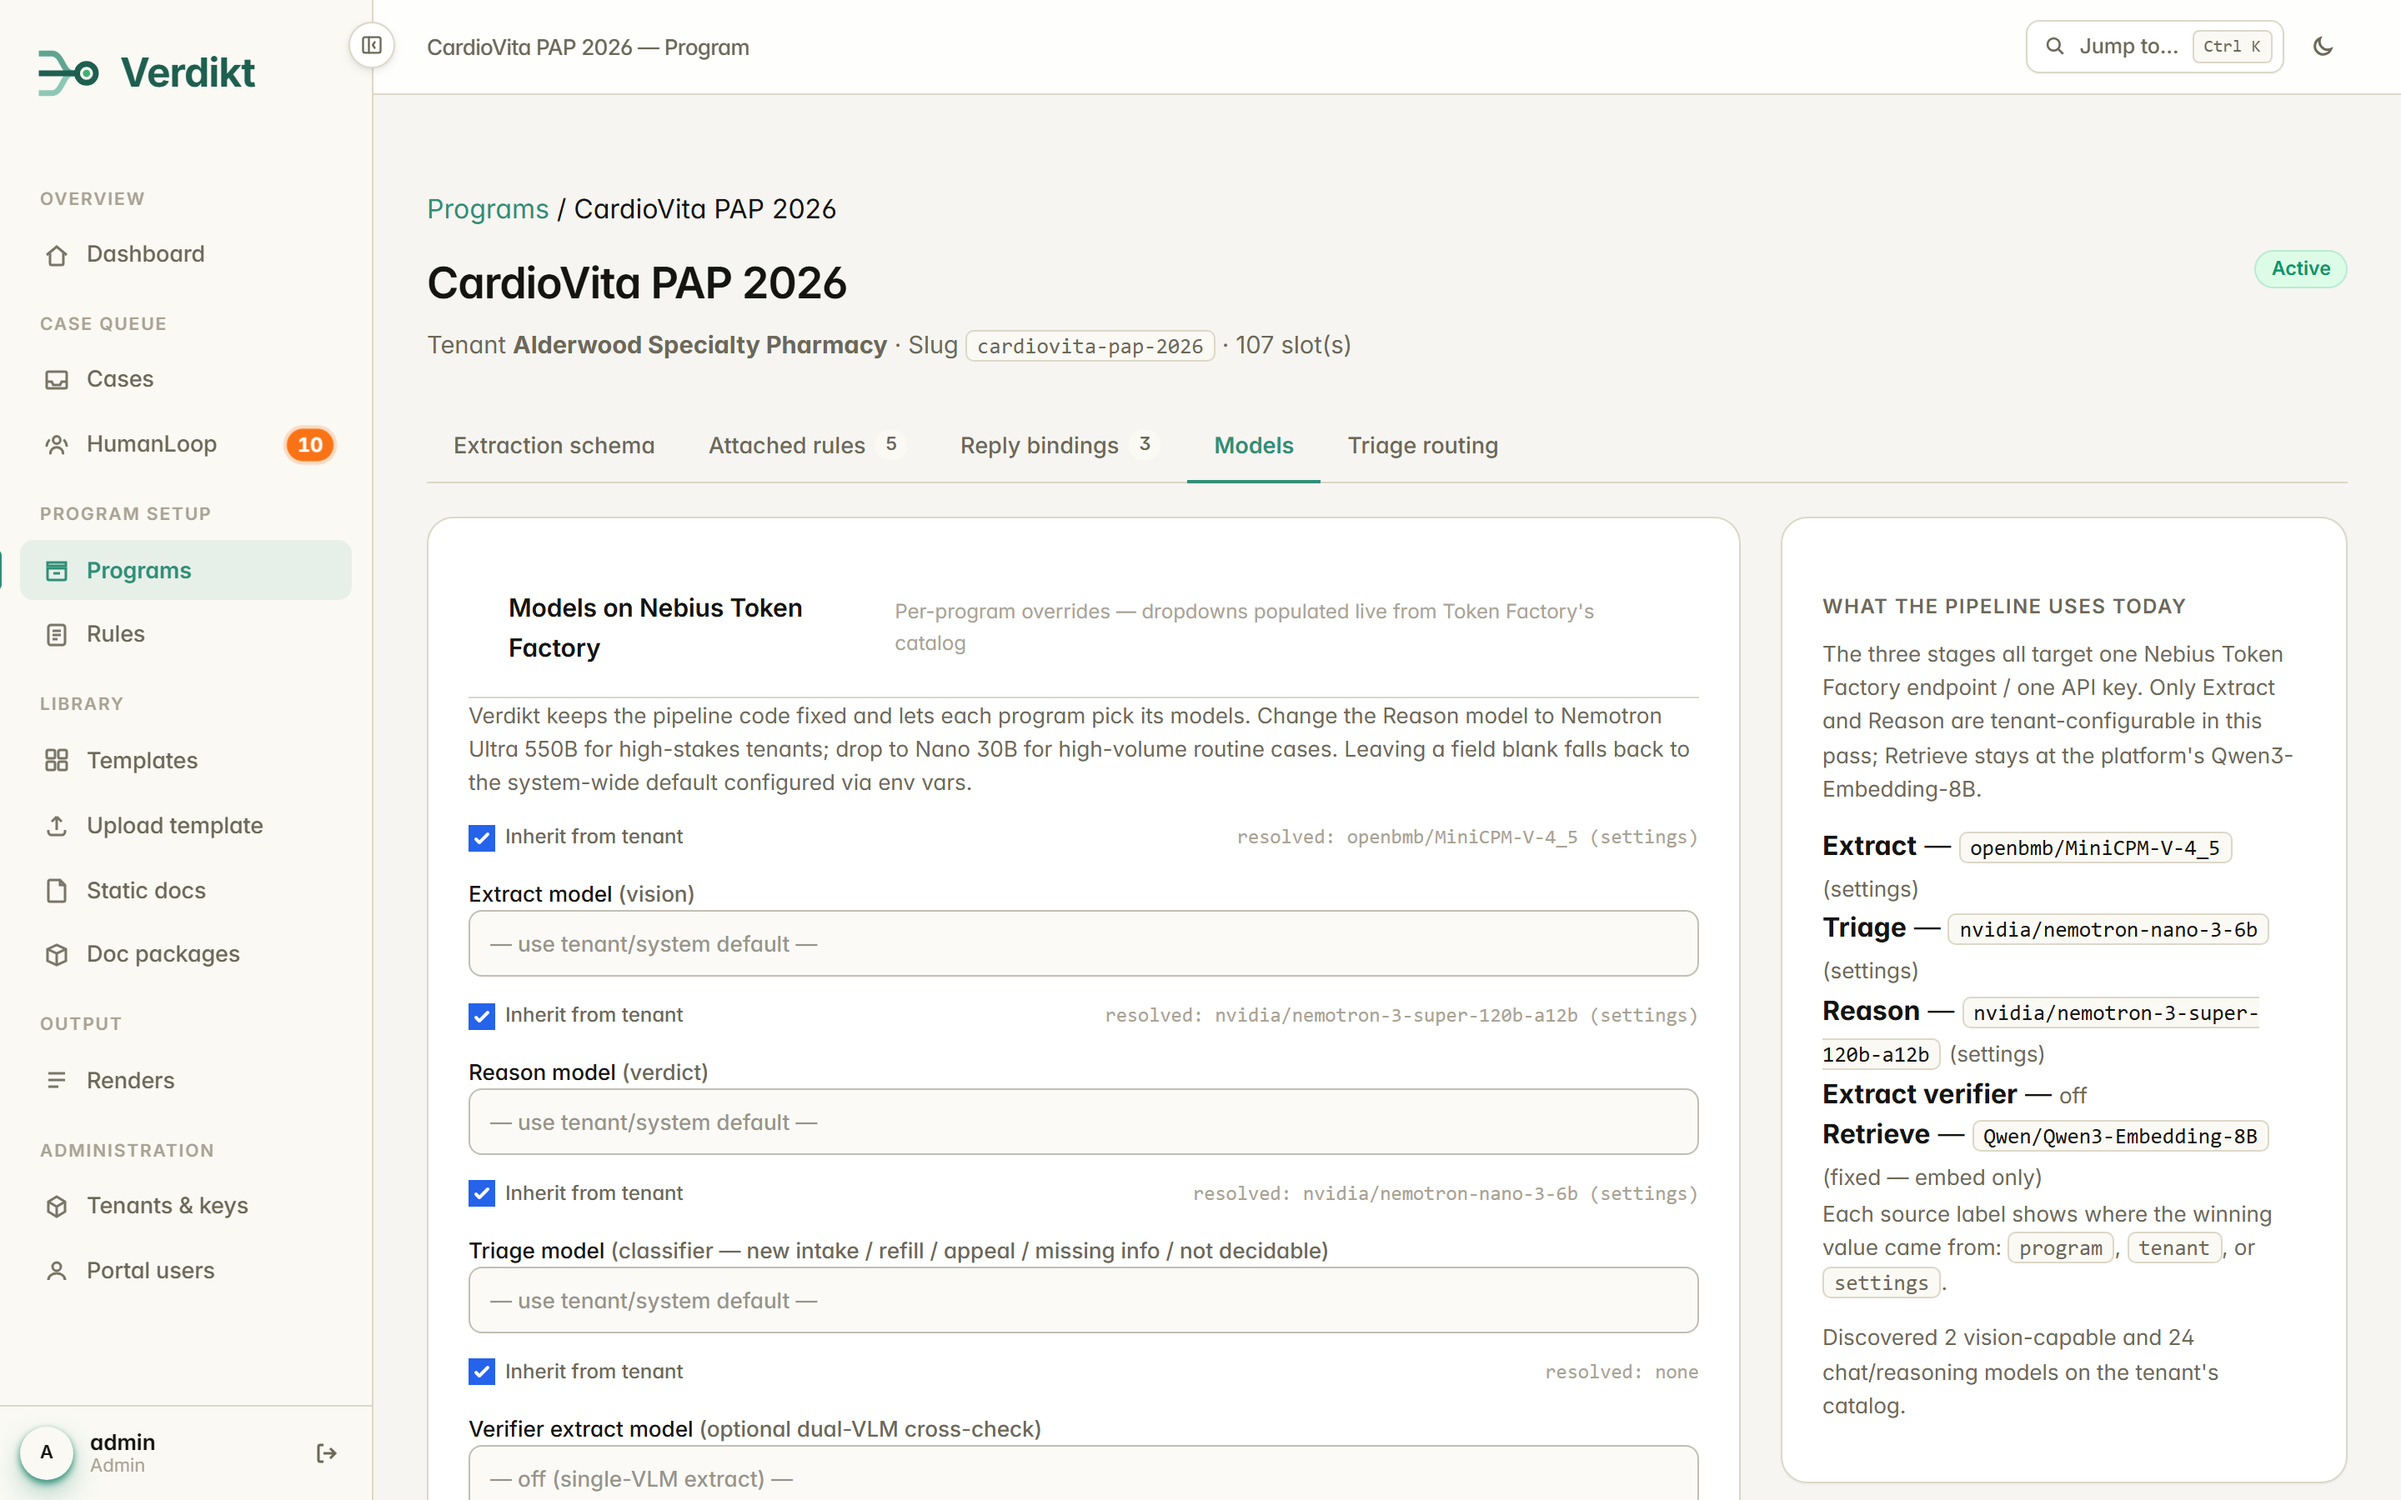
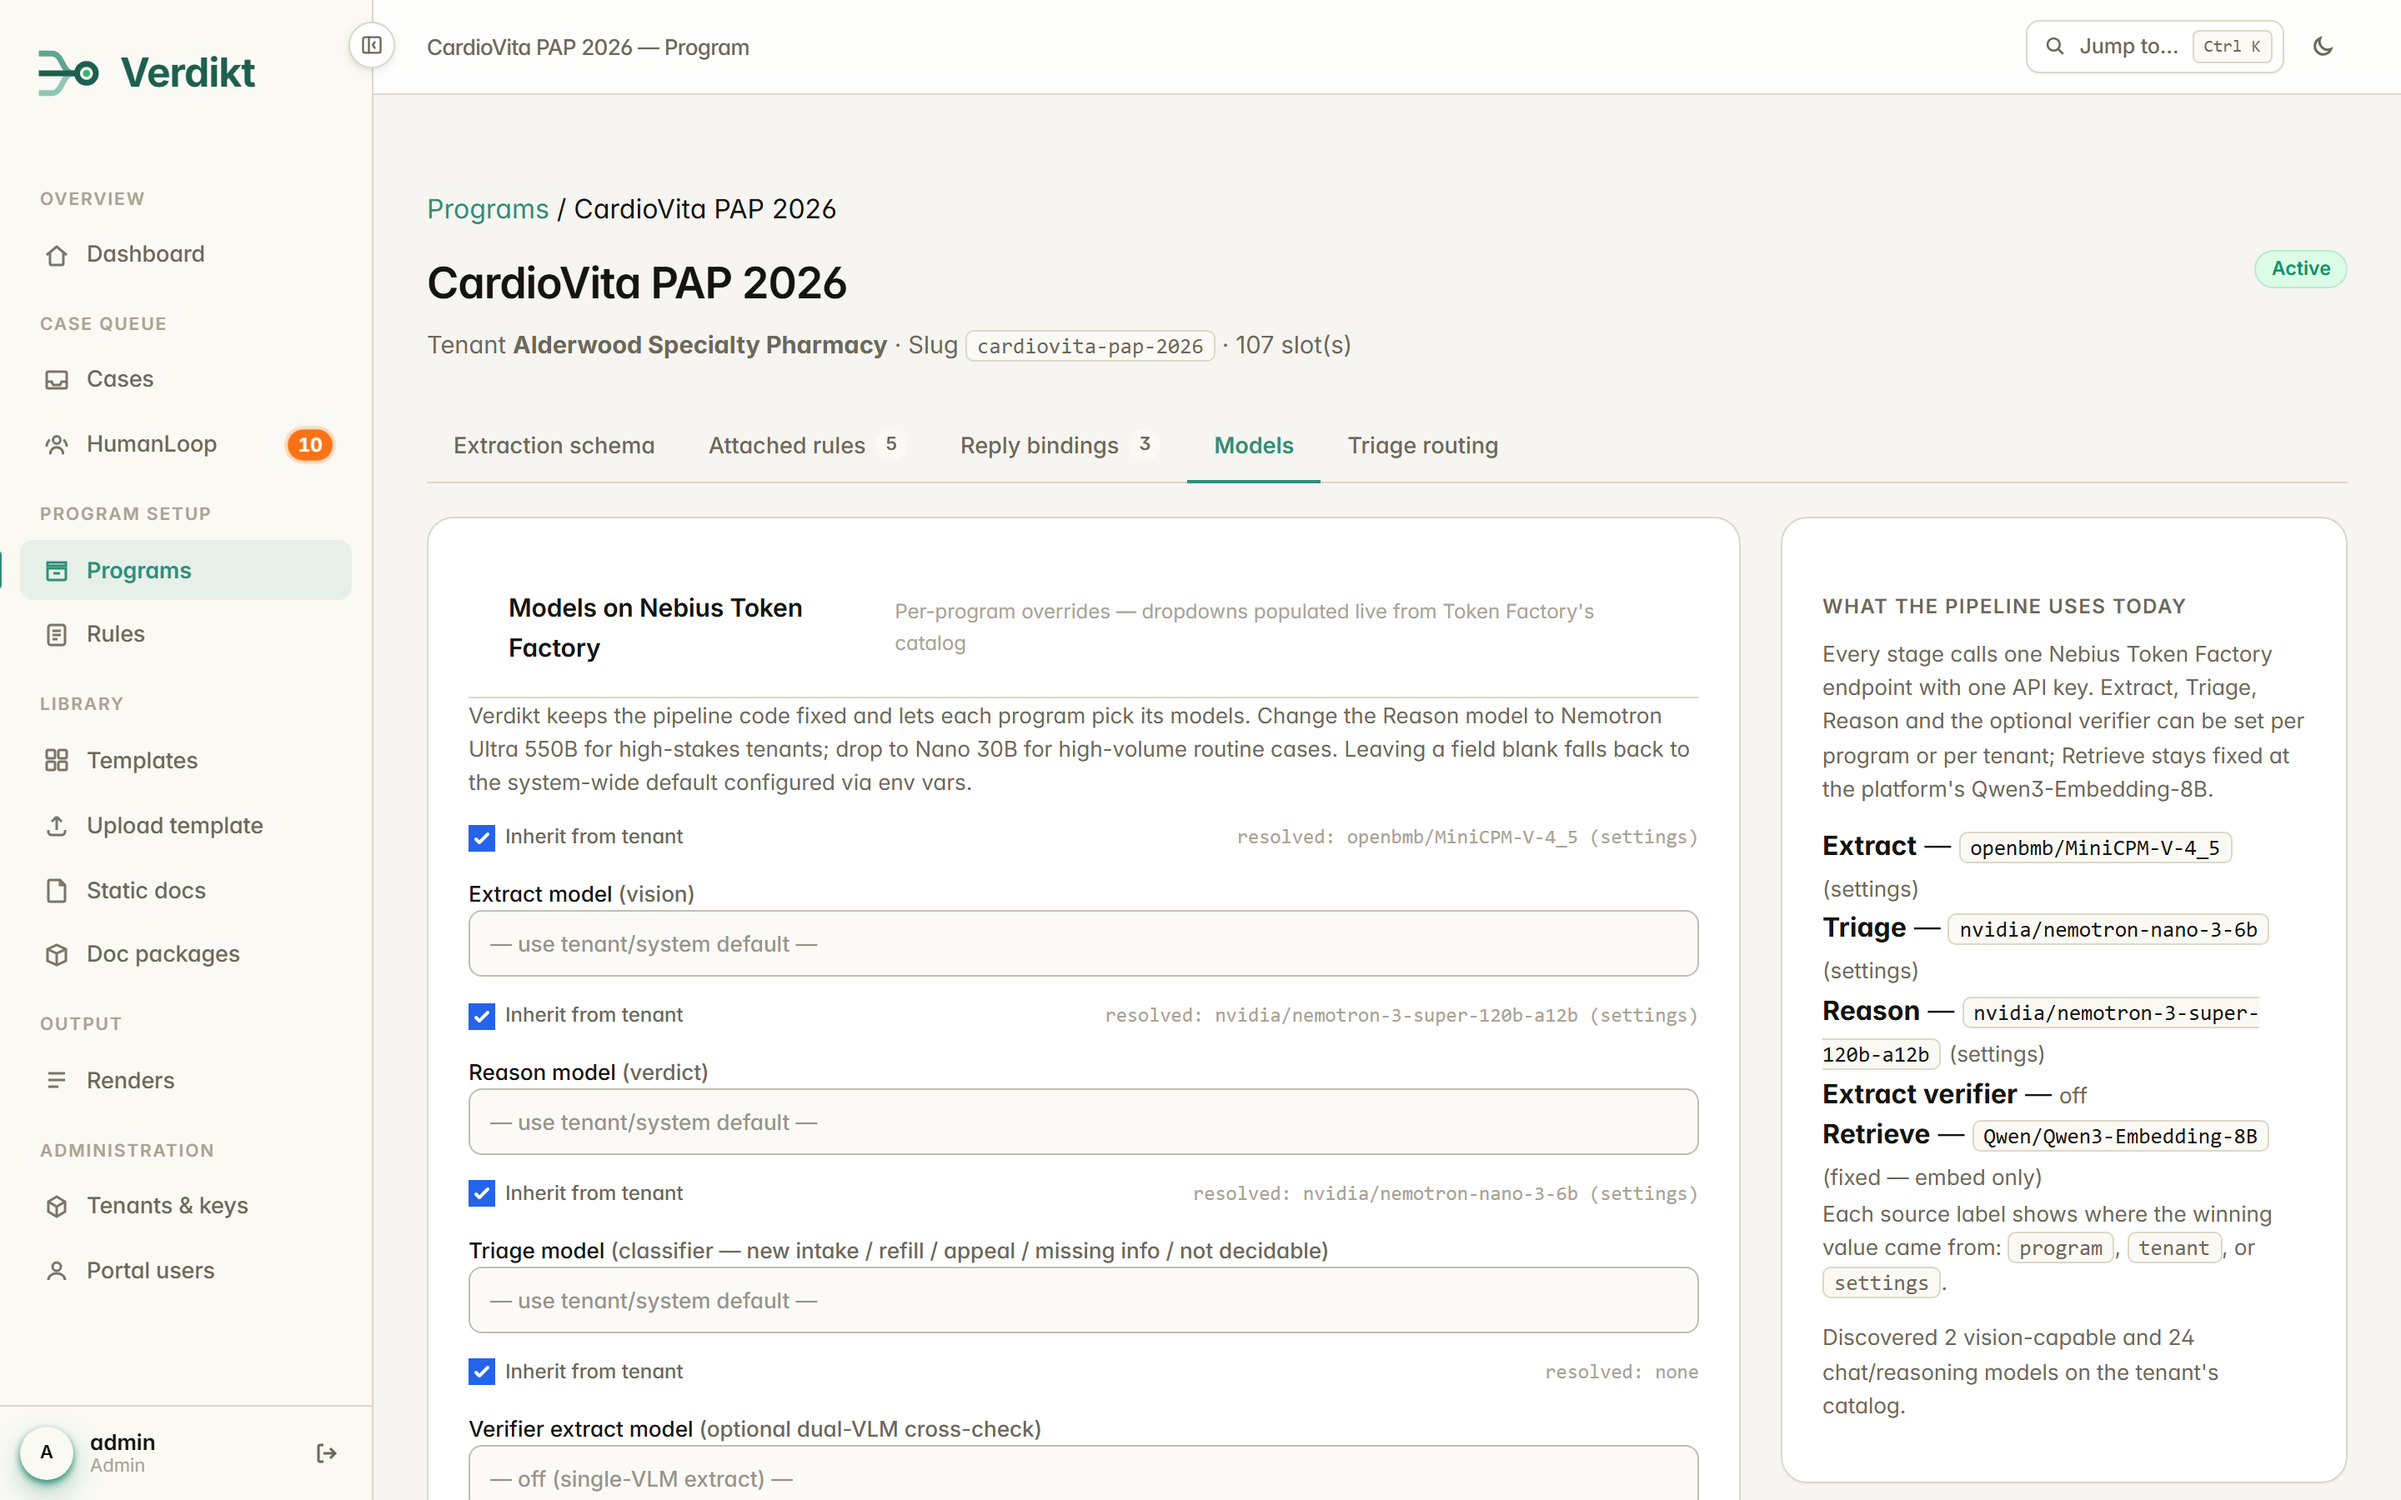
Models tab: copy matches what the panel lists
The panel said "the three stages" and that only Extract and Reason were
configurable, beside a list of five stages and a Triage dropdown. Re-took
the gallery shot with the corrected text.

Changed region(s): [[0.75, 0.4356, 0.9688, 0.5289]]

diff --git a/src/docgen/ui/templates/admin_program_detail.html b/src/docgen/ui/templates/admin_program_detail.html
@@ -677,8 +677,9 @@
         <div class="card">
             <h3 style="margin-top: 0">What the pipeline uses today</h3>
             <p class="muted" style="font-size: 13px">
-                The three stages all target one Nebius Token Factory endpoint / one API key. Only Extract and
-                Reason are tenant-configurable in this pass; Retrieve stays at the platform's Qwen3-Embedding-8B.
+                Every stage calls one Nebius Token Factory endpoint with one API key. Extract, Triage, Reason
+                and the optional verifier can be set per program or per tenant; Retrieve stays fixed at the
+                platform's Qwen3-Embedding-8B.
             </p>
             {% if resolved %}
             <ul style="font-size: 13px; line-height: 1.7; padding-left: 20px">
